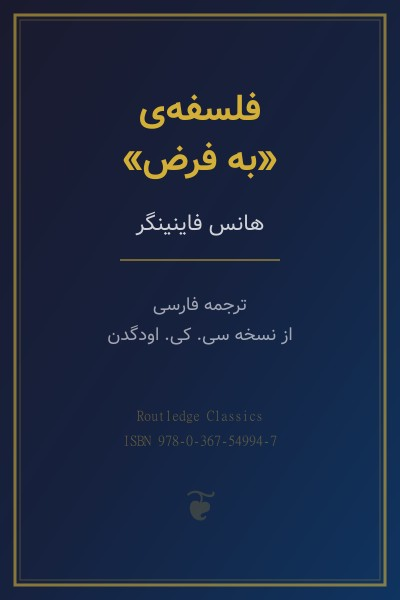
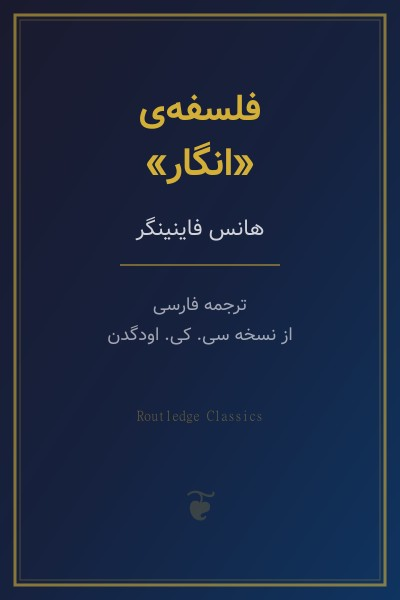
fix: local label→ذخیرهشده, default filter→IIIF, cover title→انگار
- Badge: محلی → ذخیرهشده for saved books
- Default catalog filter: IIIF manuscripts
- Filter tab labels updated in HTML
- Cover image text: فلسفهی «انگار»

diff --git a/site/catalog/catalog.js b/site/catalog/catalog.js
@@ -1,7 +1,7 @@
 // catalog.js — museum home page logic
 (function(){
 'use strict';
-var _books=[], _filter='all';
+var _books=[], _filter='iiif';
 
 function init(){
   loadTheme();
@@ -52,7 +52,7 @@ function render(){
       }).join('');
     }
     var slideshow=slides?'<div class="card-slideshow">'+slides+'</div>':'';
-    var badge=b.source==='iiif'?'<span class="source-badge iiif">IIIF</span>':'<span class="source-badge local">محلی</span>';
+    var badge=b.source==='iiif'?'<span class="source-badge iiif">IIIF</span>':'<span class="source-badge local">ذخیرهشده</span>';
     var provider=b.provider?' · '+b.provider:'';
     var href=(b.source==='iiif'?'viewer/viewer.html?book=':'reader/reader.html?book=')+encodeURIComponent(b.slug);
     return '<a class="card" href="'+href+'" style="animation-delay:'+(i*0.05)+'s" data-slug="'+b.slug+'">'+

diff --git a/site/index.html b/site/index.html
@@ -44,9 +44,9 @@
     <input type="text" id="searchInput" placeholder="جستوجو در عنوان و نویسنده...">
   </div>
   <div class="filter-tabs">
-    <button class="filter-tab on" data-filter="all">همه</button>
-    <button class="filter-tab" data-filter="iiif">نسخههای خطی IIIF</button>
-    <button class="filter-tab" data-filter="local">کتابهای محلی</button>
+    <button class="filter-tab" data-filter="all">همه</button>
+    <button class="filter-tab on" data-filter="iiif">نسخههای خطی IIIF</button>
+    <button class="filter-tab" data-filter="local">کتابهای ذخیرهشده</button>
   </div>
 </div>
 
